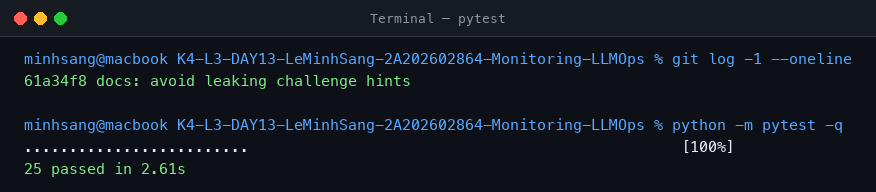
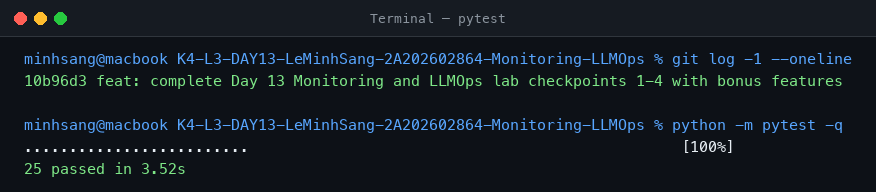
docs: finalize REPORT.md with challenge findings, evidence index, and bonus items

Changed region(s): [[0.0308, 0.375, 0.9863, 0.4688], [0.1541, 0.8438, 0.2158, 0.9062]]

diff --git a/submission/REPORT.md b/submission/REPORT.md
@@ -8,7 +8,7 @@
 - **MSSV:** 2A202602864
 - **Lớp:** K4-L3B
 - **Repository URL:** https://github.com/minhsangmr/K4-L3-DAY13-LeMinhSang-2A202602864-Monitoring-LLMOps
-- **Commit SHA cuối:** (Cập nhật sau commit cuối cùng)
+- **Commit SHA cuối:** `10b96d3c3a0de33b8f5e8b18226f502340c58711`
 - **Challenge ID:** `day13-k4-l3b-monitoring-llmops-v1`
 - **Tên project Langfuse cá nhân:** `day13-k4-l3b-2A202602864`
 
